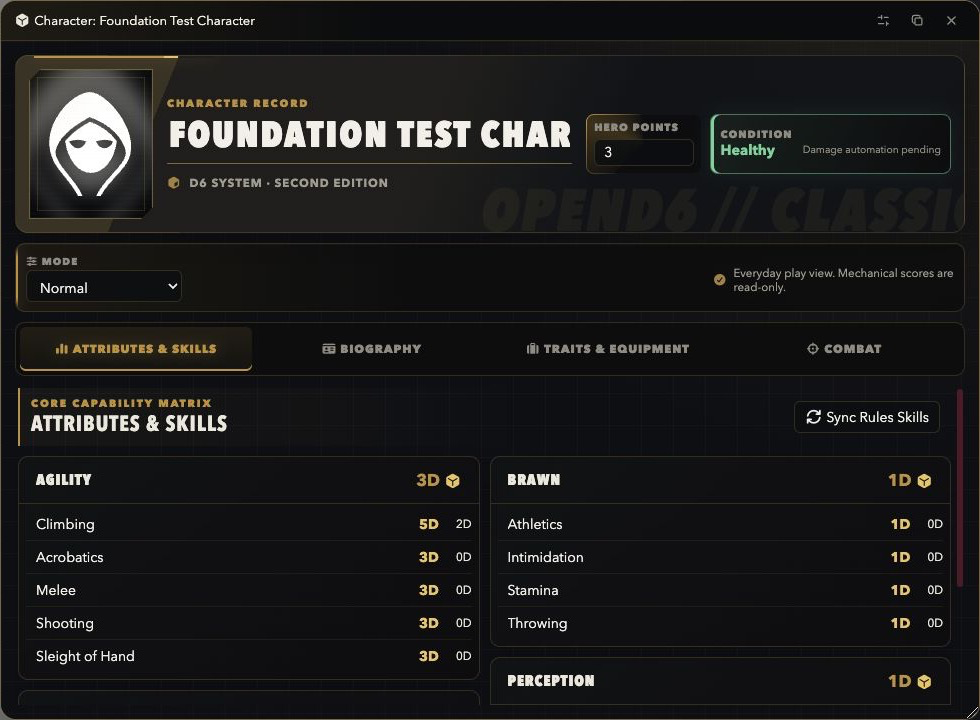
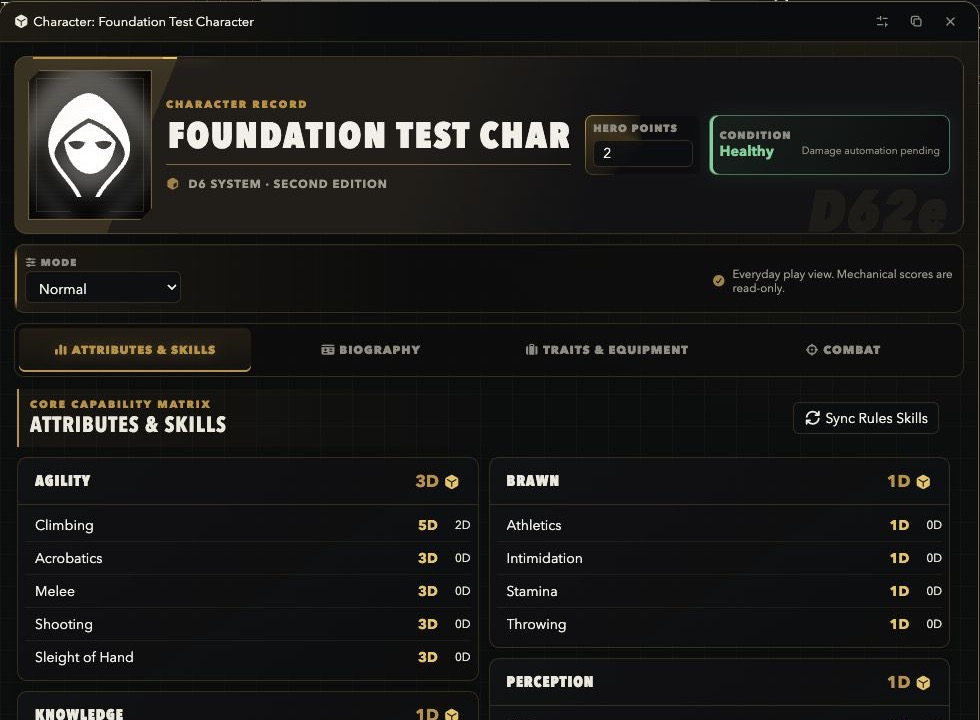
Make diffuse wordmarks edition aware

diff --git a/packages/system/src/settings/rules-profile-presentation.test.ts b/packages/system/src/settings/rules-profile-presentation.test.ts
@@ -1,0 +1,53 @@
+import { readFileSync } from "node:fs";
+import { afterEach, describe, expect, it } from "vitest";
+import {
+  applyRulesProfilePresentation,
+  rulesProfileWordmark,
+} from "./rules-profile-presentation";
+
+const styles = readFileSync(
+  new URL("../../../../styles/d6-system-2e.css", import.meta.url),
+  "utf8",
+);
+
+afterEach(() => {
+  Reflect.deleteProperty(globalThis, "document");
+});
+
+describe("rules profile presentation", () => {
+  it("uses concise edition-specific background wordmarks", () => {
+    expect(rulesProfileWordmark("second-edition")).toBe("D62e");
+    expect(rulesProfileWordmark("open-d6")).toBe("OPEN D6");
+    expect(rulesProfileWordmark("custom")).toBe("D62e");
+  });
+
+  it("applies the live wordmark and profile marker to the document root", () => {
+    const properties = new Map<string, string>();
+    const root = {
+      dataset: {} as Record<string, string>,
+      style: {
+        setProperty: (name: string, value: string) => {
+          properties.set(name, value);
+        },
+      },
+    };
+    Object.defineProperty(globalThis, "document", {
+      configurable: true,
+      value: { documentElement: root },
+    });
+
+    applyRulesProfilePresentation("open-d6");
+
+    expect(root.dataset.d6System2eRulesProfile).toBe("open-d6");
+    expect(properties.get("--od6-theme-mark")).toBe('"OPEN D6"');
+  });
+
+  it("keeps every diffuse wordmark inside its clipped surface", () => {
+    expect(styles).not.toMatch(
+      /(?:right|inset-inline-end):\s*-[\d.]+rem;[\s\S]{0,240}content:\s*var\(--od6-theme-mark\)/u,
+    );
+    expect(styles.match(/content:\s*var\(--od6-theme-mark\)/gu)).toHaveLength(
+      5,
+    );
+  });
+});

diff --git a/styles/d6-system-2e.css b/styles/d6-system-2e.css
@@ -55,7 +55,7 @@
   --od6-radius: var(--d6e2-radius);
   --od6-radius-lg: 15px;
   --od6-shadow: 0 18px 50px rgb(0 0 0 / 42%);
-  --od6-theme-mark: "OPEN D6 // CLASSIC";
+  --od6-theme-mark: "D62e";
   --color-shadow-primary: var(--od6-accent);
 }
 
@@ -1435,7 +1435,7 @@ body.system-d6-system-2e .od6roll-shell {
 
 body.system-d6-system-2e .od6roll-shell::after {
   position: absolute;
-  right: -0.7rem;
+  right: 0.7rem;
   bottom: 0.2rem;
   color: var(--od6-accent-bright);
   content: var(--od6-theme-mark);
@@ -1483,7 +1483,7 @@ body.system-d6-system-2e .od6-dialog-shell {
 
 body.system-d6-system-2e .od6-dialog-shell::after {
   position: absolute;
-  right: -0.35rem;
+  right: 0.7rem;
   bottom: -0.25rem;
   color: var(--od6-accent-bright);
   content: var(--od6-theme-mark);
@@ -1895,7 +1895,7 @@ body.system-d6-system-2e .od6chat-roll {
 
 body.system-d6-system-2e .od6chat-roll::after {
   position: absolute;
-  right: -0.45rem;
+  right: 0.45rem;
   bottom: 1.5rem;
   color: var(--od6-accent-bright);
   content: var(--od6-theme-mark);
@@ -2254,7 +2254,7 @@ body.system-d6-system-2e .od6v2-hero::before {
 
 body.system-d6-system-2e .od6v2-hero::after {
   position: absolute;
-  right: -1.4rem;
+  right: 0.85rem;
   bottom: -0.42rem;
   color: var(--od6-accent-bright);
   content: var(--od6-theme-mark);
@@ -3730,7 +3730,7 @@ body.system-d6-system-2e .od6item-hero {
 body.system-d6-system-2e .od6item-hero::after {
   content: var(--od6-theme-mark);
   position: absolute;
-  right: -0.65rem;
+  right: 0.65rem;
   bottom: -0.25rem;
   color: var(--od6-accent-bright);
   font-family: var(--od6-font-display);

diff --git a/packages/system/src/settings/rules-compatibility.ts b/packages/system/src/settings/rules-compatibility.ts
@@ -220,14 +220,20 @@ const SETTING_LOCALIZATION_KEYS: Readonly<
   firstEditionWildDie: "WildDie",
 });
 
-export function registerRulesCompatibilitySettings(): void {
+export function registerRulesCompatibilitySettings(
+  onProfileChanged: () => void = () => undefined,
+): void {
   game.settings.register(SYSTEM_ID, OPEN_D6_MASTER_SETTING, {
     config: false,
     default: false,
     hint: "D6E2.Settings.UseOpenD6Rules.Hint",
     name: "D6E2.Settings.UseOpenD6Rules.Name",
     onChange: (value: unknown) => {
-      if (settingsWriteMode === "idle") void applyMasterPreset(value === true);
+      if (settingsWriteMode === "idle") {
+        void applyMasterPreset(value === true).finally(onProfileChanged);
+      } else {
+        onProfileChanged();
+      }
     },
     requiresReload: false,
     scope: "world",
@@ -242,7 +248,11 @@ export function registerRulesCompatibilitySettings(): void {
       hint: `D6E2.Settings.FirstEdition.${localizationKey}.Hint`,
       name: `D6E2.Settings.FirstEdition.${localizationKey}.Name`,
       onChange: () => {
-        if (settingsWriteMode === "idle") void synchronizeMasterSetting();
+        if (settingsWriteMode === "idle") {
+          void synchronizeMasterSetting().finally(onProfileChanged);
+        } else {
+          onProfileChanged();
+        }
       },
       requiresReload: false,
       scope: "world",

diff --git a/packages/system/src/settings/system-settings.ts b/packages/system/src/settings/system-settings.ts
@@ -2,9 +2,11 @@ import { SYSTEM_ID, SYSTEM_NAME } from "../constants";
 import { observeThemeRegistry, themeRegistry } from "../registries/themes";
 import {
   COMPATIBILITY_SETTING_KEYS,
+  currentRulesProfile,
   OPEN_D6_MASTER_SETTING,
   registerRulesCompatibilitySettings,
 } from "./rules-compatibility";
+import { applyRulesProfilePresentation } from "./rules-profile-presentation";
 import {
   FIRST_EDITION_SETTINGS,
   SECOND_EDITION_SETTINGS,
@@ -67,6 +69,7 @@ export function applySelectedTheme(): void {
   root.style.setProperty("--od6-bg", selected.tokens.background);
   root.style.setProperty("--od6-muted", selected.tokens.muted);
   root.style.setProperty("--od6-text", selected.tokens.text);
+  applyRulesProfilePresentation(currentRulesProfile().id);
 }
 
 function registerDefinition(
@@ -107,7 +110,9 @@ export function registerSystemSettings(): void {
     refreshThemeChoices();
     applySelectedTheme();
   });
-  registerRulesCompatibilitySettings();
+  registerRulesCompatibilitySettings(() => {
+    applyRulesProfilePresentation(currentRulesProfile().id);
+  });
   for (const definition of SHARED_SETTINGS) {
     registerDefinition(definition, true);
   }

diff --git a/packages/system/src/settings/rules-profile-presentation.ts b/packages/system/src/settings/rules-profile-presentation.ts
@@ -1,0 +1,15 @@
+import type { RulesProfileId } from "@d6-system-2e/core";
+
+export function rulesProfileWordmark(profileId: RulesProfileId): string {
+  return profileId === "open-d6" ? "OPEN D6" : "D62e";
+}
+
+export function applyRulesProfilePresentation(profileId: RulesProfileId): void {
+  if (typeof document === "undefined") return;
+  const root = document.documentElement;
+  root.dataset.d6System2eRulesProfile = profileId;
+  root.style.setProperty(
+    "--od6-theme-mark",
+    JSON.stringify(rulesProfileWordmark(profileId)),
+  );
+}

diff --git a/docs/OD6S-NEXT-PARITY.md b/docs/OD6S-NEXT-PARITY.md
@@ -20,11 +20,12 @@ and data semantics.
 
 ## Feature ledger
 
-| Feature                                | Source traced | Implementation | Automated | Live    | Notes                                                                                                                                                                                                                                                                                                                                                                                                                          |
-| -------------------------------------- | ------------- | -------------- | --------- | ------- | ------------------------------------------------------------------------------------------------------------------------------------------------------------------------------------------------------------------------------------------------------------------------------------------------------------------------------------------------------------------------------------------------------------------------------ |
-| GM Quickbar                            | Partial       | Ported         | Verified  | Partial | GM-only access and score controls exist. Complete side-by-side and reload matrix remains required.                                                                                                                                                                                                                                                                                                                             |
-| GM-requested Attribute and Skill rolls | Complete      | Ported         | Verified  | Pending | GM configuration, recipient selection, Public/Player + GM/GM-only Blind audience, version/lifetime/authority validation, locked player builder, chat audit context, and duplicate in-flight suppression are implemented. Complete the live role, blind-redaction, cancellation, reload, and side-by-side matrix before marking live verified.                                                                                  |
-| Active Tasks & Requests                | Complete      | Adapted for 2e | Verified  | Pending | Standard requests now use the ported transient authority service: registration before delivery, deterministic ordering, response cleanup, expiry, remote cancel/abort, disconnect-aware takeover, working/failure state, and first-completion protection. Offline request creation remains disabled by the user's explicit UX decision. Combined Actions remain deferred until their cross-edition rules decision is recorded. |
+| Feature                                | Source traced | Implementation | Automated | Live     | Notes                                                                                                                                                                                                                                                                                                                                                                                                                          |
+| -------------------------------------- | ------------- | -------------- | --------- | -------- | ------------------------------------------------------------------------------------------------------------------------------------------------------------------------------------------------------------------------------------------------------------------------------------------------------------------------------------------------------------------------------------------------------------------------------ |
+| GM Quickbar                            | Partial       | Ported         | Verified  | Partial  | GM-only access and score controls exist. Complete side-by-side and reload matrix remains required.                                                                                                                                                                                                                                                                                                                             |
+| GM-requested Attribute and Skill rolls | Complete      | Ported         | Verified  | Pending  | GM configuration, recipient selection, Public/Player + GM/GM-only Blind audience, version/lifetime/authority validation, locked player builder, chat audit context, and duplicate in-flight suppression are implemented. Complete the live role, blind-redaction, cancellation, reload, and side-by-side matrix before marking live verified.                                                                                  |
+| Active Tasks & Requests                | Complete      | Adapted for 2e | Verified  | Pending  | Standard requests now use the ported transient authority service: registration before delivery, deterministic ordering, response cleanup, expiry, remote cancel/abort, disconnect-aware takeover, working/failure state, and first-completion protection. Offline request creation remains disabled by the user's explicit UX decision. Combined Actions remain deferred until their cross-edition rules decision is recorded. |
+| Diffuse edition wordmarks              | Complete      | Adapted for 2e | Verified  | Verified | OpenD6 Next's diffuse background treatment is retained without right-edge clipping. Build 365 verified live, reload-free switching between `OPEN D6` for complete OpenD6 compatibility and `D62e` for native Second Edition. Custom profiles intentionally retain `D62e`.                                                                                                                                                      |
 
 ## Required completion rule
 

diff --git a/docs/USER-MANUAL.md b/docs/USER-MANUAL.md
@@ -53,9 +53,12 @@ structure as OpenD6 Next. Its main workspaces are:
 - **Combat**
 
 The header shows the active edition presentation, rules-owned resources, and
-the current Condition. Move the pointer over the portrait—or focus it with the
-keyboard—to reveal the OpenD6 animated scan, glow, and reticle treatment.
-Owners and Gamemasters can activate the portrait to choose a new image.
+the current Condition. Its diffuse background wordmark follows the resolved
+rules profile live: **D62e** for native Second Edition and custom profiles, or
+**OPEN D6** for the complete OpenD6 compatibility profile. Move the pointer over
+the portrait—or focus it with the keyboard—to reveal the OpenD6 animated scan,
+glow, and reticle treatment. Owners and Gamemasters can activate the portrait
+to choose a new image.
 
 ## 2. Campaign Profiles and Editions
 

diff --git a/docs/HANDOVER.md b/docs/HANDOVER.md
@@ -2,6 +2,17 @@
 
 Updated: 2026-07-28
 
+## Edition-aware diffuse wordmark
+
+- The OpenD6 Next diffuse background typography now resolves from the live
+  rules profile rather than a fixed CSS label: native Second Edition and custom
+  profiles show `D62e`, while the complete OpenD6 preset shows `OPEN D6`.
+- Sheet, dialog, Item, roll-builder, and chat-card wordmarks use positive
+  right-side insets so their final glyph is not clipped.
+- A live Build 365 pass verified the complete `D62e` mark, switched to the
+  complete OpenD6 preset, observed `OPEN D6` immediately without reloading,
+  visually checked its longer final glyph, and restored native Second Edition.
+
 ## Latest machine Actor pass
 
 - Schema 10 admits native `vehicle` and `starship` Actors with typed Foundry v14

diff --git a/docs/FOUNDATION-VALIDATION.md b/docs/FOUNDATION-VALIDATION.md
@@ -1,5 +1,15 @@
 # Foundation validation
 
+## 2026-07-28 edition-aware diffuse wordmark
+
+- In Foundry v14 Build 365, native Second Edition resolved the root presentation
+  marker to `second-edition` and the diffuse CSS wordmark to `D62e`.
+- Enabling the complete OpenD6 preset changed both the root profile marker and
+  the open character sheet to `OPEN D6` without a reload. The longer mark
+  remained fully inside the header's clipped right edge.
+- Disabling the preset restored `D62e` without a reload. The validation world
+  was returned to Setup in native Second Edition mode.
+
 Updated: 2026-07-28
 
 ## Second Edition Experience Point advancement (Build 365)

diff --git a/CHANGELOG.md b/CHANGELOG.md
@@ -5,6 +5,8 @@ once distributable releases begin.
 
 ## Unreleased
 
+- Made the diffuse sheet, dialog, Item, and chat-card wordmark follow the live
+  rules profile (`D62e` or `OPEN D6`) and moved it inside clipped surfaces.
 - Added schema 10 vehicle and starship Actors with source-backed system fields,
   OpenD6 Next-style ApplicationV2 sheets, system and weapon-damage rolls,
   derived Defense/resistance, repair Conditions, equipment workspaces, and
